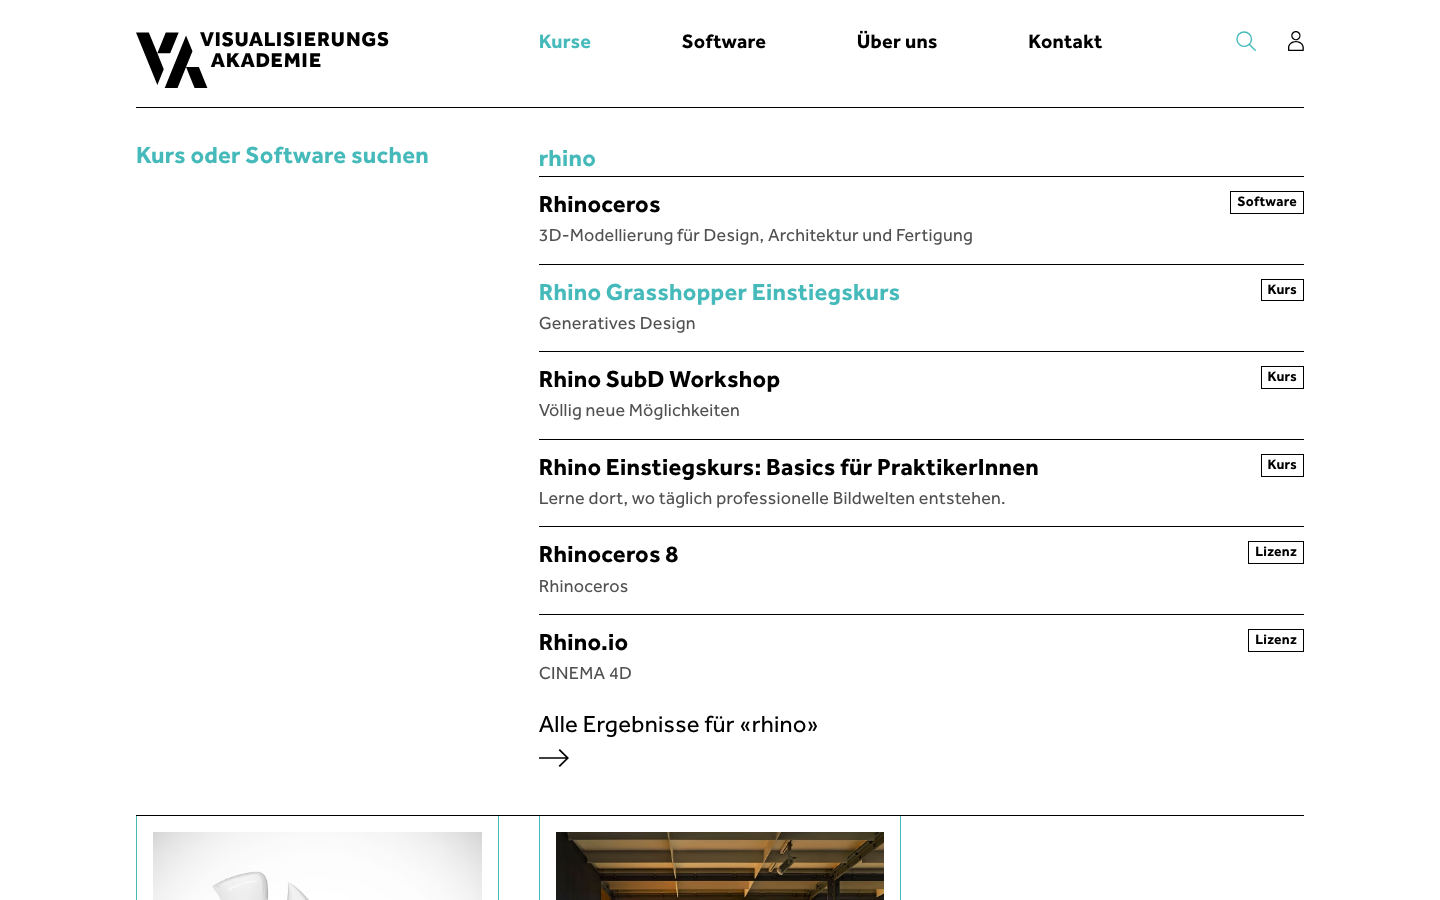
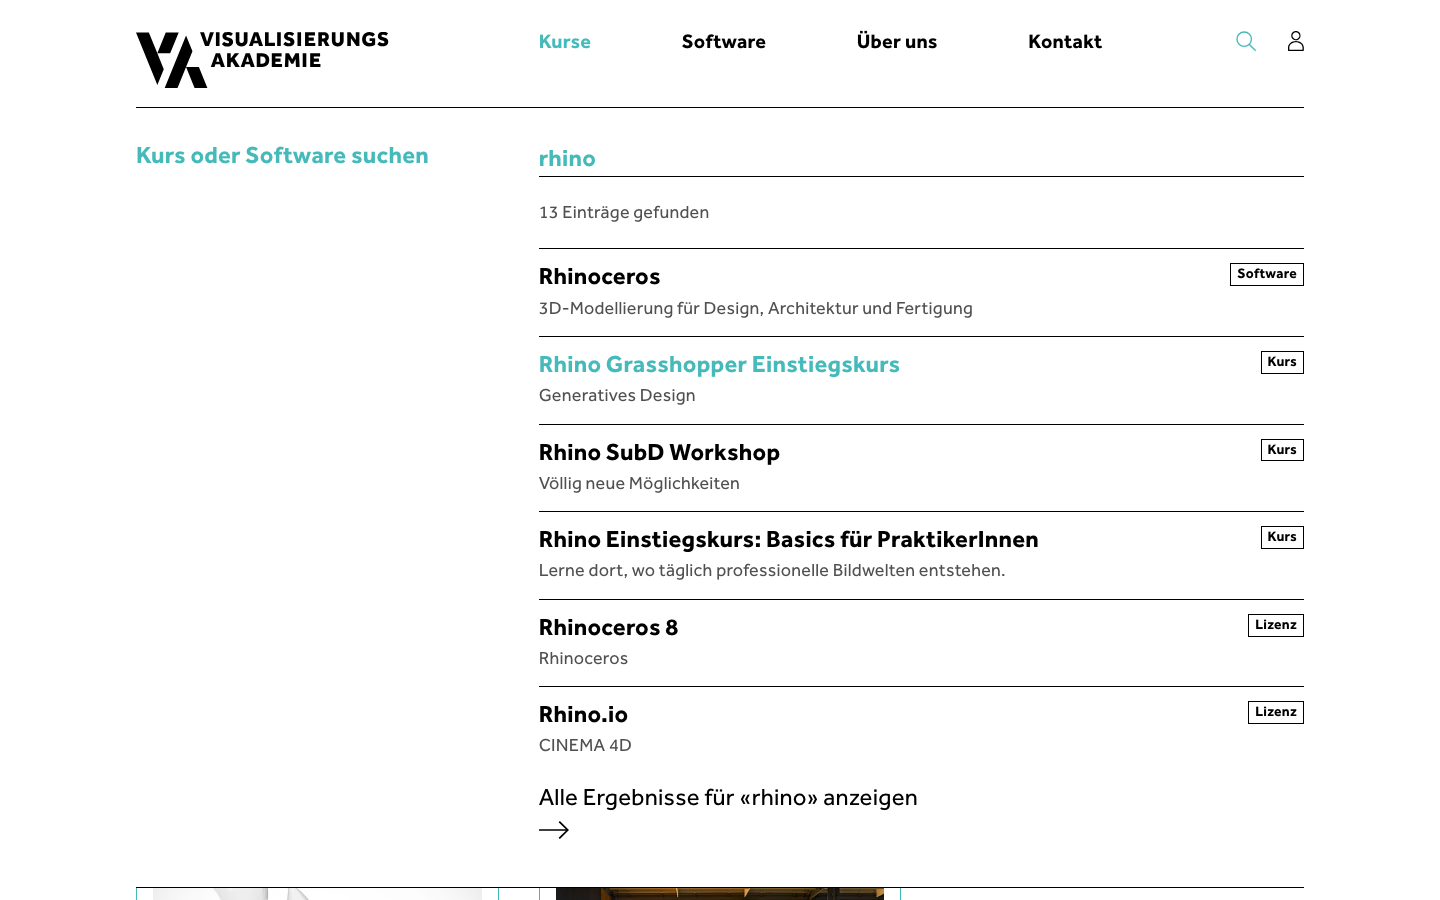
Search panel: how many were found, as the result page says it
The API answers total beside the first few hits.

diff --git a/resources/js/site/components/site-search.js b/resources/js/site/components/site-search.js
@@ -12,6 +12,7 @@ export default (resultsUrl) => ({
 	open: false,
 	query: '',
 	hits: [],
+	total: 0,
 	active: -1,
 	loading: false,
 	timer: null,
@@ -39,6 +40,7 @@ export default (resultsUrl) => ({
 
 		if (this.query.trim().length < 2) {
 			this.hits = [];
+			this.total = 0;
 			this.answered = '';
 			return;
 		}
@@ -52,13 +54,17 @@ export default (resultsUrl) => ({
 
 		try {
 			const response = await fetch(`/api/search?limit=6&q=${encodeURIComponent(this.query.trim())}`, { headers: { Accept: 'application/json' } });
-			const { data } = await response.json();
+			const { data, total } = await response.json();
 			if (asked === this.asked) {
 				this.hits = data;
+				this.total = total;
 				this.answered = this.query.trim();
 			}
 		} catch {
-			if (asked === this.asked) this.hits = [];
+			if (asked === this.asked) {
+				this.hits = [];
+				this.total = 0;
+			}
 		} finally {
 			if (asked === this.asked) this.loading = false;
 		}
@@ -74,6 +80,11 @@ export default (resultsUrl) => ({
 	go() {
 		const hit = this.hits[this.active];
 		window.location.href = hit ? hit.url : this.resultsFor(this.query);
+	},
+
+	// *13 Einträge gefunden*, as the result page says it.
+	get found() {
+		return this.total === 1 ? '1 Eintrag gefunden' : `${this.total} Einträge gefunden`;
 	},
 
 	resultsFor(query) {

diff --git a/resources/views/components/layout/header.blade.php b/resources/views/components/layout/header.blade.php
@@ -186,8 +186,10 @@
 					:aria-expanded="hits.length > 0" :aria-activedescendant="active >= 0 ? `site-search-hit-${active}` : null"
 					class="block w-full border-b border-black bg-transparent py-4 text-lg leading-[normal] font-bold text-teal outline-hidden sm:text-xl lg:text-3xl [&::-webkit-search-cancel-button]:appearance-none">
 
-				{{-- The field's rule is the first row's: no gap, no second line (Marcel, 2026-10-26). --}}
-				<ul id="site-search-hits" role="listbox" class="[&>li:first-of-type>a]:border-t-0" x-show="hits.length">
+				{{-- How many, as the result page says it, then the first six (Marcel, 2026-10-26). --}}
+				<p x-show="hits.length" x-text="found" class="mt-24 mb-16 text-md text-gray-600 sm:mb-24 sm:text-lg lg:text-xl" aria-live="polite"></p>
+
+				<ul id="site-search-hits" role="listbox" x-show="hits.length">
 					<template x-for="(hit, index) in hits" :key="hit.url + hit.title">
 						<li :id="`site-search-hit-${index}`" role="option" :aria-selected="index === active">
 							<a :href="hit.url" class="group block border-t border-black pt-8 pb-16 sm:pt-12" @mouseenter="active = index">

diff --git a/app/Http/Controllers/Api/SearchController.php b/app/Http/Controllers/Api/SearchController.php
@@ -11,7 +11,7 @@ use Illuminate\Http\Request;
 
 /**
  * The site search, as JSON ([[15-search]]): what the header field's
- * suggestions and the result page will draw. Public, as the pages it finds
+ * suggestions draw, with `total`, how many there are in all. Public, as the pages it finds
  * are. Two characters at least; fewer answers an empty list, not an error,
  * because a field asks as it is typed into.
  */
@@ -22,8 +22,9 @@ class SearchController extends Controller
 		$query = trim($request->string('q')->limit(100, '')->value());
 		$limit = min(max($request->integer('limit', 8), 1), 30);
 
-		$hits = mb_strlen($query) < 2 ? collect() : $index->search($query, app()->getLocale(), $limit);
+		// All of them, to say how many; the panel lists the first few ([[siteSearch]]).
+		$hits = mb_strlen($query) < 2 ? collect() : $index->search($query, app()->getLocale(), 60);
 
-		return response()->json(['data' => $hits->values()]);
+		return response()->json(['data' => $hits->take($limit)->values(), 'total' => $hits->count()]);
 	}
 }

diff --git a/tests/Search/SiteSearchTest.php b/tests/Search/SiteSearchTest.php
@@ -110,7 +110,10 @@ it('answers the header field as JSON, nothing under two characters', function ()
 		->assertJsonPath('data.0.title', 'Rhinoceros')
 		->assertJsonPath('data.0.label', 'Software')
 		->assertJsonPath('data.0.lead', 'Freiformen für Schmuck')
-		->assertJsonPath('data.0.url', '/de/software/rhinoceros');
+		->assertJsonPath('data.0.url', '/de/software/rhinoceros')
+		->assertJsonPath('total', 2);
+
+	$this->getJson('/api/search?q=rhin&limit=1')->assertJsonCount(1, 'data')->assertJsonPath('total', 2);
 
 	$this->getJson('/api/search?q=r')->assertOk()->assertJsonCount(0, 'data');
 });

diff --git a/.rework/15-search.md b/.rework/15-search.md
@@ -89,7 +89,7 @@ a FULLTEXT index over JSON would match keys and markup as well as words.
     however often the course says Lumion; *Rhino* puts the Angebot first.
 - **`GET /api/search?q=…&limit=…`** ([[SearchController]]), public,
   `throttle:120,1`: `type`, `label` (*Kurs*, *Software*, *Lizenz*,
-  *Vorhaben*), `title`, `lead`, `url`. Under two characters, an empty list.
+  *Vorhaben*), `title`, `lead`, `url`, and `total`, how many in all. Under two characters, an empty list.
 - **`php artisan search:rebuild`**, step 7 of every deploy and after the
   ports (`Deploy.md`).
 - **Tests** in `tests/Search`, their own suite: InnoDB's FULLTEXT does not
@@ -115,7 +115,8 @@ nav. So the proposal uses the site's own pieces:
 - **It opens a panel under the header's rule**: white, its own black rule
   below, laid out as Kontakt is (Marcel, 2026-10-26): *Kurs oder Software
   suchen* bold teal in the aside, the field in the copy column, a form field
-  as everywhere on the site (bold teal on a black rule). Six hits as the site's list rows (title bold, the type as
+  as everywhere on the site (bold teal on a black rule). *13 Einträge gefunden*, then six hits as the
+  site's list rows (title bold, the type as
   a badge on the right, the lead in grey), then *Alle Ergebnisse für «…» anzeigen*
   with the site's arrow. *Nichts gefunden für «…»* when nothing is.
   Arrows move through the hits, Enter opens the marked one or the result
